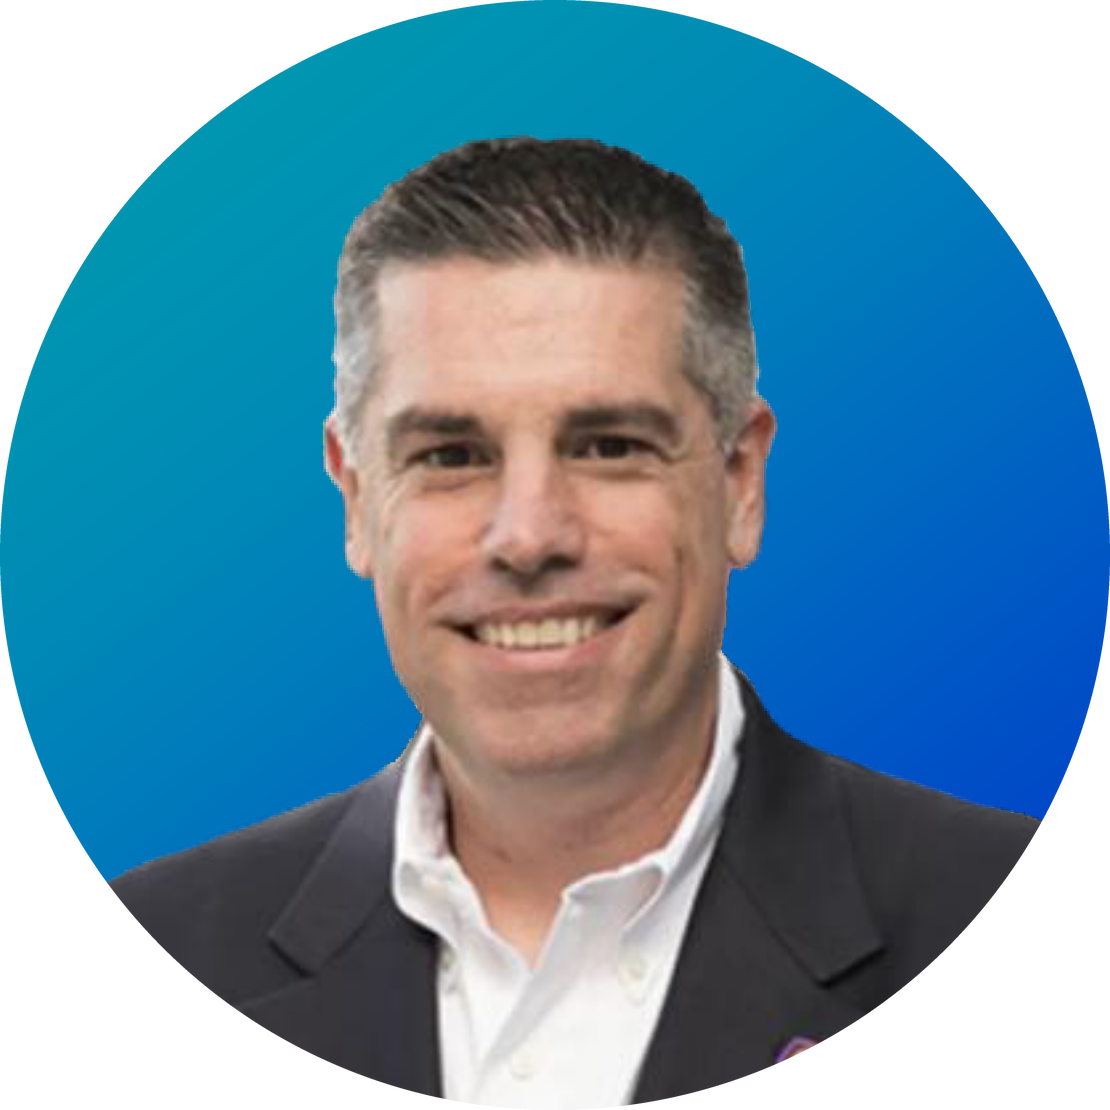
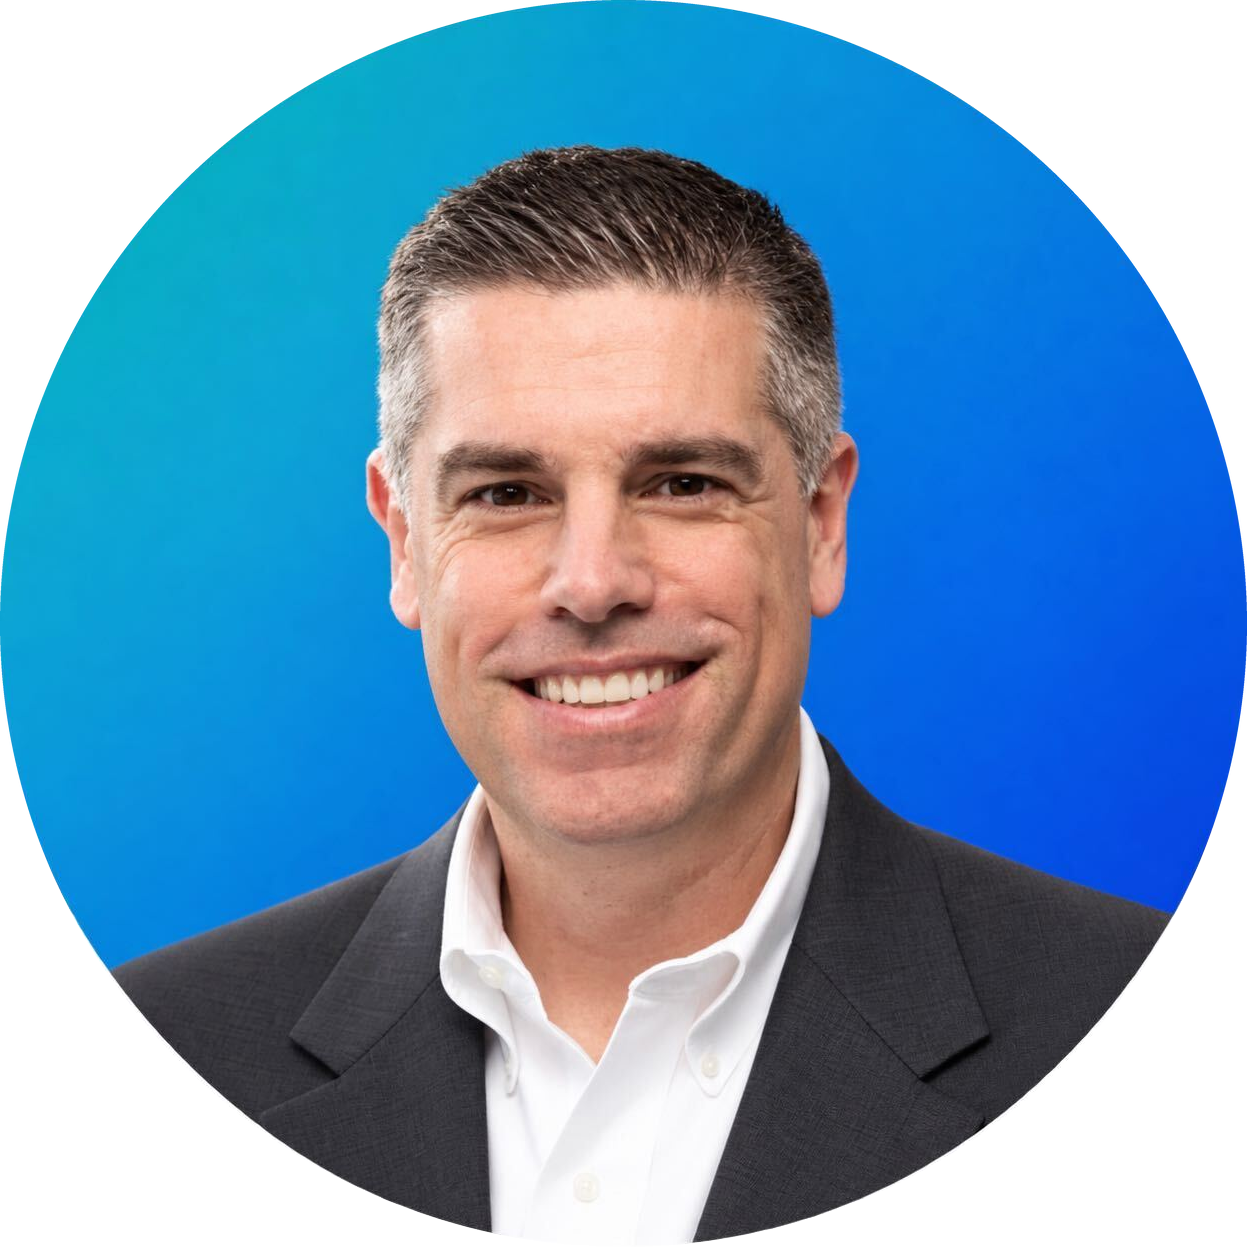
fixes

diff --git a/src/data/site.ts b/src/data/site.ts
@@ -88,7 +88,7 @@ export const services: Service[] = [
     slug: 'sixth-man',
     name: 'Sixth Man',
     line: 'The autonomous revenue teammate for sports. It reads your fan data, decides the next best action, and reaches the fan without waiting for a rep.',
-    items: ['Built on your Fan 360 data', 'Sports-specific playbooks', 'Measured on revenue, not meetings'],
+    items: ['Built on your Unified Fan Profile', 'Sports-specific playbooks', 'Measured on revenue, not meetings'],
   },
   {
     slug: 'talent',
@@ -142,6 +142,7 @@ export const principals: Principal[] = [
     bio: 'Chris, a 25+ year industry veteran, has worked for clubs in the NFL, MLB, NHL, MLS, and NWSL, setting attendance and revenue records along the way. Prior to launching Quantum, he was the Chief Revenue Officer for Orlando City SC.',
     highlights: [
       'MLS Ticket Sales Executive of the Year',
+      'Sports Business Journal’s Ticketing Industry Power Player',
       'VenuesNow All-Star',
       'National Advisory Board Member, University of Central Florida DeVos Sport Business Management Program',
     ],
@@ -152,7 +153,7 @@ export const principals: Principal[] = [
     role: 'Chief Commercial Officer',
     photo: 'rob-parker',
     bio: 'Rob built the partnership platforms at two MLS expansion clubs from the ground up, including founding jersey partnerships, stadium naming rights, and long-term commercial platforms for the Philadelphia Union and Orlando City SC. He has also led corporate partnerships for MLS and revenue for Haslam Sports Group.',
-    highlights: ['MLS’s two longest-running jersey partnerships', 'MLS Corporate Sales Executive of the Year', 'MLS Sponsorship Activation Award'],
+    highlights: ['Two of MLS’s longest-running jersey partnerships', 'MLS Corporate Sales Executive of the Year', 'MLS Sponsorship Activation Award'],
   },
   {
     slug: 'dennis-sprenkle',
@@ -335,11 +336,20 @@ export const caseStudies: CaseStudy[] = [
     client: 'Jacksonville Jaguars',
     logo: 'jacksonville-jaguars',
     kind: 'Talent',
-    // TODO: scope and results from Quantum
     title: 'Staffing the Stadium of the Future',
-    summary: 'Building the ticket sales team for the Jaguars’ redeveloped stadium.',
-    // TODO: placeholder topics from the deck's Enterprise Solutions slide; confirm with Quantum
-    results: ['Staffing model', 'Recruitment', 'Hiring + training'],
+    summary: 'Recruiting a ticket sales manager and sales reps for the Jaguars. We sourced and interviewed every candidate, then recommended the shortlist the club hired from.',
+    results: ['Recruitment'],
+  },
+  {
+    slug: 'mls-partnerships',
+    client: 'Orlando City SC + Philadelphia Union',
+    logo: 'philadelphia-union',
+    kind: 'Partnerships',
+    title: 'Jersey and naming rights partnerships',
+    summary: 'Stadium naming rights for both clubs, and two of MLS’s longest-running jersey partnerships.',
+    // TODO: placeholder topics from the deck's Partnership Success slide; confirm with Quantum
+    results: ['Jersey partnerships', 'Naming rights', 'Partnership activation'],
+    topics: true,
   },
   {
     slug: 'hartford-athletic',
@@ -349,16 +359,5 @@ export const caseStudies: CaseStudy[] = [
     title: 'Partnership sales consulting',
     summary: 'A six-month engagement with the USL club’s partnership team.',
     results: ['Partnership revenue up 25%'],
-  },
-  {
-    slug: 'mls-partnerships',
-    client: 'Orlando City SC + Philadelphia Union',
-    logo: 'philadelphia-union',
-    kind: 'Partnerships',
-    title: 'Jersey and naming rights partnerships',
-    summary: 'Stadium naming rights for both clubs, and MLS’s two longest-running jersey partnerships.',
-    // TODO: placeholder topics from the deck's Partnership Success slide; confirm with Quantum
-    results: ['Jersey partnerships', 'Naming rights', 'Partnership activation'],
-    topics: true,
   },
 ];

diff --git a/src/data/pages.ts b/src/data/pages.ts
@@ -2,7 +2,7 @@
 export const revenue = {
   lede: 'We’ve sold naming rights, jersey fronts, suites, and season tickets from the team side. Now we bring that to your side of the table.',
   blocks: [
-    { title: 'Naming rights + jersey partnerships', body: 'Stadium naming rights for the Philadelphia Union and Orlando City SC, and MLS’s two longest-running jersey partnerships.' },
+    { title: 'Naming rights + jersey partnerships', body: 'Stadium naming rights for the Philadelphia Union and Orlando City SC, and two of MLS’s longest-running jersey partnerships.' },
     { title: 'Sponsorship strategy', body: 'Hundreds of millions in partnerships negotiated. We know what assets are worth and how to hit agreed KPIs.' },
     { title: 'Ticket sales', body: 'Pricing, group sales, and digital campaigns built to sell more seats at better prices.' },
     { title: 'Premium sales', body: 'Suites, clubs, and experiential spaces, sold and renewed.' },
@@ -10,7 +10,7 @@ export const revenue = {
   growth: {
     lede: 'We build and monetize the next generation of sports properties: expansion teams, new stadiums, and the commercial plan that pays for them.',
     blocks: [
-      { title: 'Expansion teams', body: 'Orlando City SC, Nashville SC, and Inter Miami CF all launched with Quantum principals on staff.' },
+      { title: 'Expansion teams', body: 'Orlando City SC, Nashville SC, and Inter Miami CF all launched with Quantum principals in senior roles.' },
       { title: 'Stadium development', body: 'Stadium construction solutions, preview centers, naming rights, access control, and concessions, planned alongside the building.' },
       { title: 'Commercial strategy', body: 'An outside read on the whole business, or an extension of your sales and marketing team.' },
     ],
@@ -25,7 +25,7 @@ export const revenue = {
 
 export const sixthMan = {
   standfirst: 'The autonomous revenue teammate for sports.',
-  lede: 'Built on your Fan 360 data and pointed at revenue.',
+  lede: 'Built on your Unified Fan Profile and pointed at revenue.',
   description: 'Sixth Man reads your fan data, decides the next best action, and contacts the fan without waiting for a rep.',
   partner: 'Quantum brings Sixth Man to clubs, venues, and leagues in partnership with Purveyor Sports, the data and AI company that built it.',
   points: [
